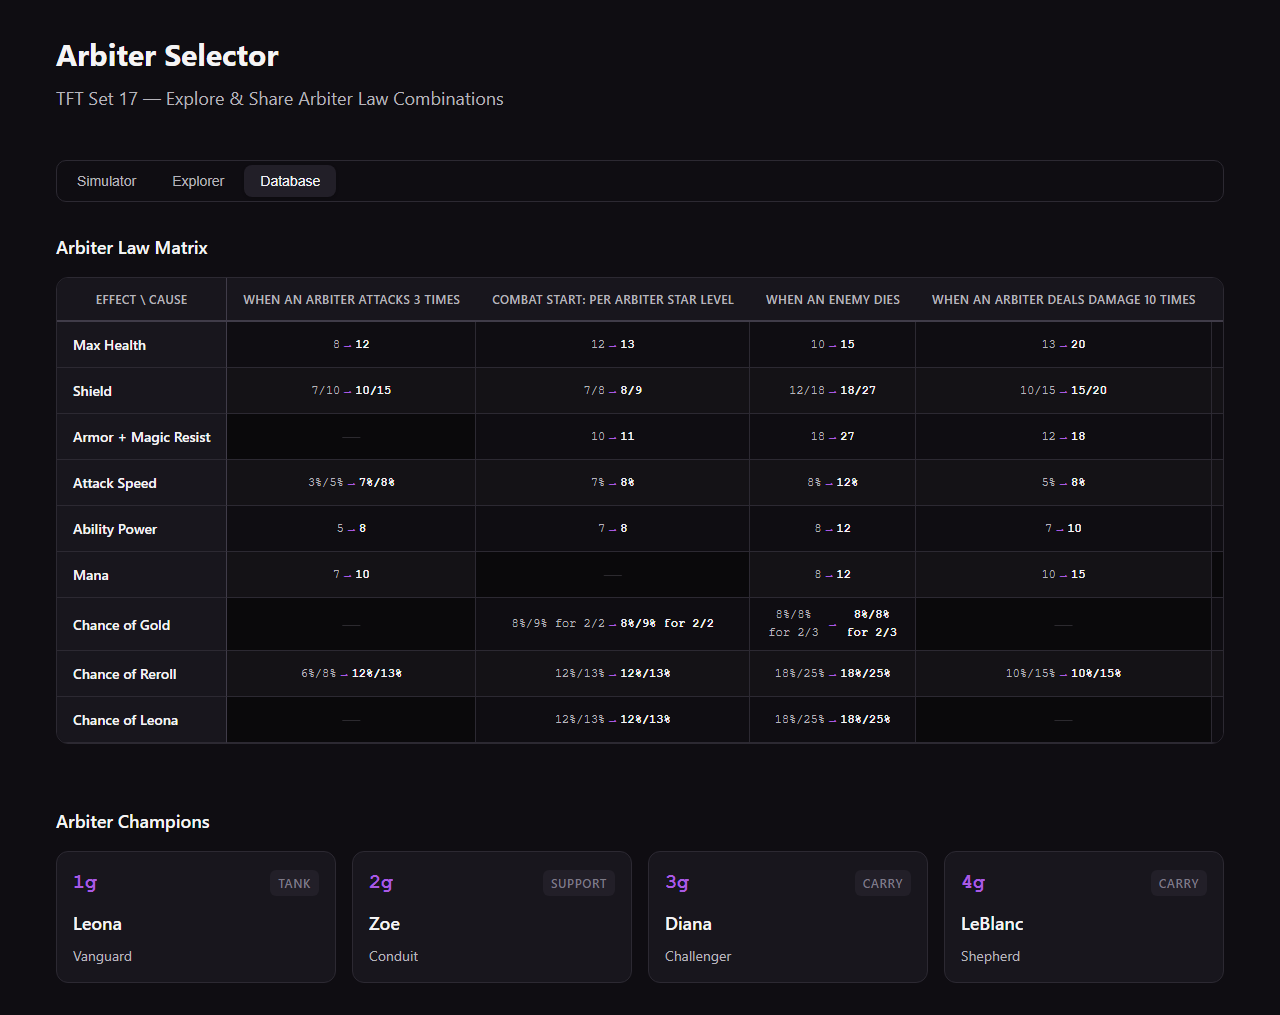
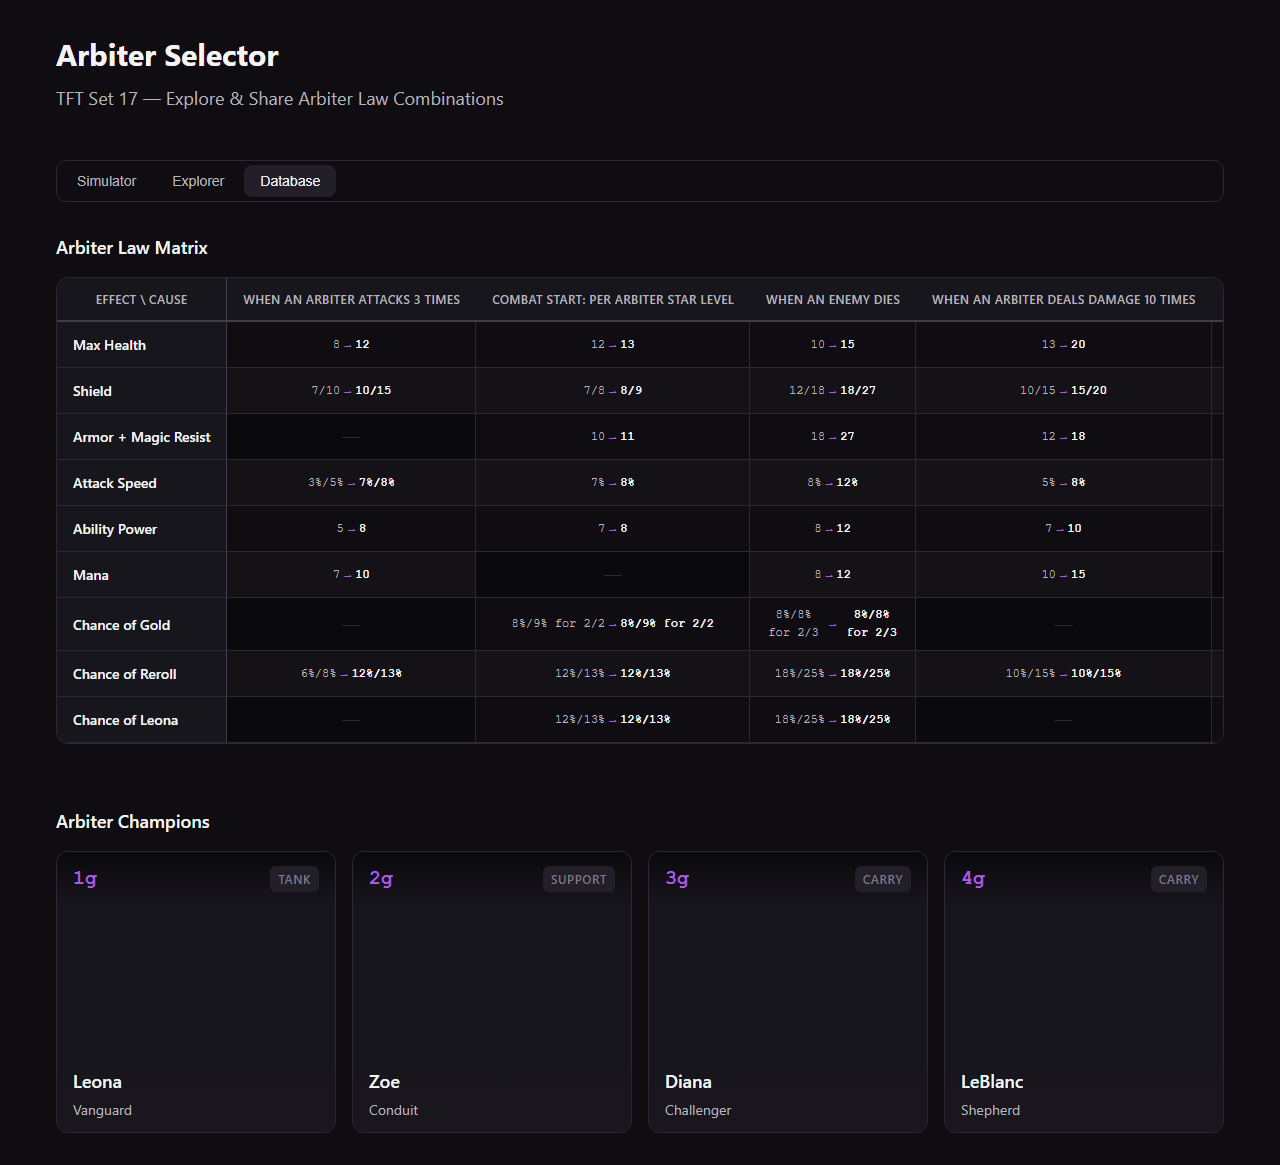
feat: add champion splash arts from CDragon to champion cards

diff --git a/src/data/arbiter-data.ts b/src/data/arbiter-data.ts
@@ -103,10 +103,38 @@ export const LAW_MATRIX: ArbiterMatrix = {
 };
 
 export const champions: Champion[] = [
-  { id: 'leona', name: 'Leona', cost: 1, secondarySynergy: 'Vanguard', role: 'tank' },
-  { id: 'zoe', name: 'Zoe', cost: 2, secondarySynergy: 'Conduit', role: 'support' },
-  { id: 'diana', name: 'Diana', cost: 3, secondarySynergy: 'Challenger', role: 'carry' },
-  { id: 'leblanc', name: 'LeBlanc', cost: 4, secondarySynergy: 'Shepherd', role: 'carry' },
+  {
+    id: 'leona',
+    name: 'Leona',
+    cost: 1,
+    secondarySynergy: 'Vanguard',
+    role: 'tank',
+    splashUrl: 'https://raw.communitydragon.org/latest/game/assets/characters/tft17_leona/skins/base/images/tft17_leona_splash_tile_64.tft_set17.png',
+  },
+  {
+    id: 'zoe',
+    name: 'Zoe',
+    cost: 2,
+    secondarySynergy: 'Conduit',
+    role: 'support',
+    splashUrl: 'https://raw.communitydragon.org/latest/game/assets/characters/tft17_zoe/skins/base/images/tft17_zoe_splash_tile_43.tft_set17.png',
+  },
+  {
+    id: 'diana',
+    name: 'Diana',
+    cost: 3,
+    secondarySynergy: 'Challenger',
+    role: 'carry',
+    splashUrl: 'https://raw.communitydragon.org/latest/game/assets/characters/tft17_diana/skins/base/images/tft17_dianasplash_pc.tft_set17.png',
+  },
+  {
+    id: 'leblanc',
+    name: 'LeBlanc',
+    cost: 4,
+    secondarySynergy: 'Shepherd',
+    role: 'carry',
+    splashUrl: 'https://raw.communitydragon.org/latest/game/assets/characters/tft17_leblanc/skins/base/images/tft17_leblanc_splash_tile_29.tft_set17.png',
+  },
 ];
 
 export const PATCH_VERSION = '17.2';

diff --git a/src/index.css b/src/index.css
@@ -703,7 +703,7 @@ body {
   background: var(--surface-1);
   border: 1px solid var(--border-subtle);
   border-radius: var(--radius-lg);
-  padding: var(--space-4);
+  overflow: hidden;
   transition: all var(--transition-fast);
 }
 
@@ -712,11 +712,22 @@ body {
   transform: translateY(-2px);
 }
 
+.champion-card__splash {
+  background-size: cover;
+  background-position: center 20%;
+  background-repeat: no-repeat;
+  min-height: 280px;
+  display: flex;
+  flex-direction: column;
+  justify-content: space-between;
+}
+
 .champion-card__header {
   display: flex;
   justify-content: space-between;
   align-items: center;
-  margin-bottom: var(--space-3);
+  padding: var(--space-3) var(--space-4);
+  background: linear-gradient(to bottom, rgba(0,0,0,.6), transparent);
 }
 
 .champion-card__cost {
@@ -737,11 +748,16 @@ body {
   border-radius: var(--radius-sm);
 }
 
+.champion-card__footer {
+  padding: var(--space-3) var(--space-4);
+  background: linear-gradient(to top, var(--surface-1) 50%, transparent);
+}
+
 .champion-card__name {
   font-size: var(--text-lg);
   font-weight: 600;
   color: var(--text-primary);
-  margin-bottom: var(--space-2);
+  margin-bottom: var(--space-1);
 }
 
 .champion-card__synergy {

diff --git a/src/components/database/ChampionCards.tsx b/src/components/database/ChampionCards.tsx
@@ -7,12 +7,19 @@ export function ChampionCards() {
       <div className="champion-cards__grid">
         {champions.map(champ => (
           <div key={champ.id} className="champion-card fade-in">
-            <div className="champion-card__header">
-              <span className="champion-card__cost">{champ.cost}g</span>
-              <span className="champion-card__role">{champ.role}</span>
+            <div
+              className="champion-card__splash"
+              style={{ backgroundImage: `url(${champ.splashUrl})` }}
+            >
+              <div className="champion-card__header">
+                <span className="champion-card__cost">{champ.cost}g</span>
+                <span className="champion-card__role">{champ.role}</span>
+              </div>
+              <div className="champion-card__footer">
+                <h4 className="champion-card__name">{champ.name}</h4>
+                <p className="champion-card__synergy">{champ.secondarySynergy}</p>
+              </div>
             </div>
-            <h4 className="champion-card__name">{champ.name}</h4>
-            <p className="champion-card__synergy">{champ.secondarySynergy}</p>
           </div>
         ))}
       </div>

diff --git a/src/types.ts b/src/types.ts
@@ -38,6 +38,7 @@ export interface Champion {
   cost: number;
   secondarySynergy: string;
   role: string;
+  splashUrl: string;
 }
 
 // Law selection state